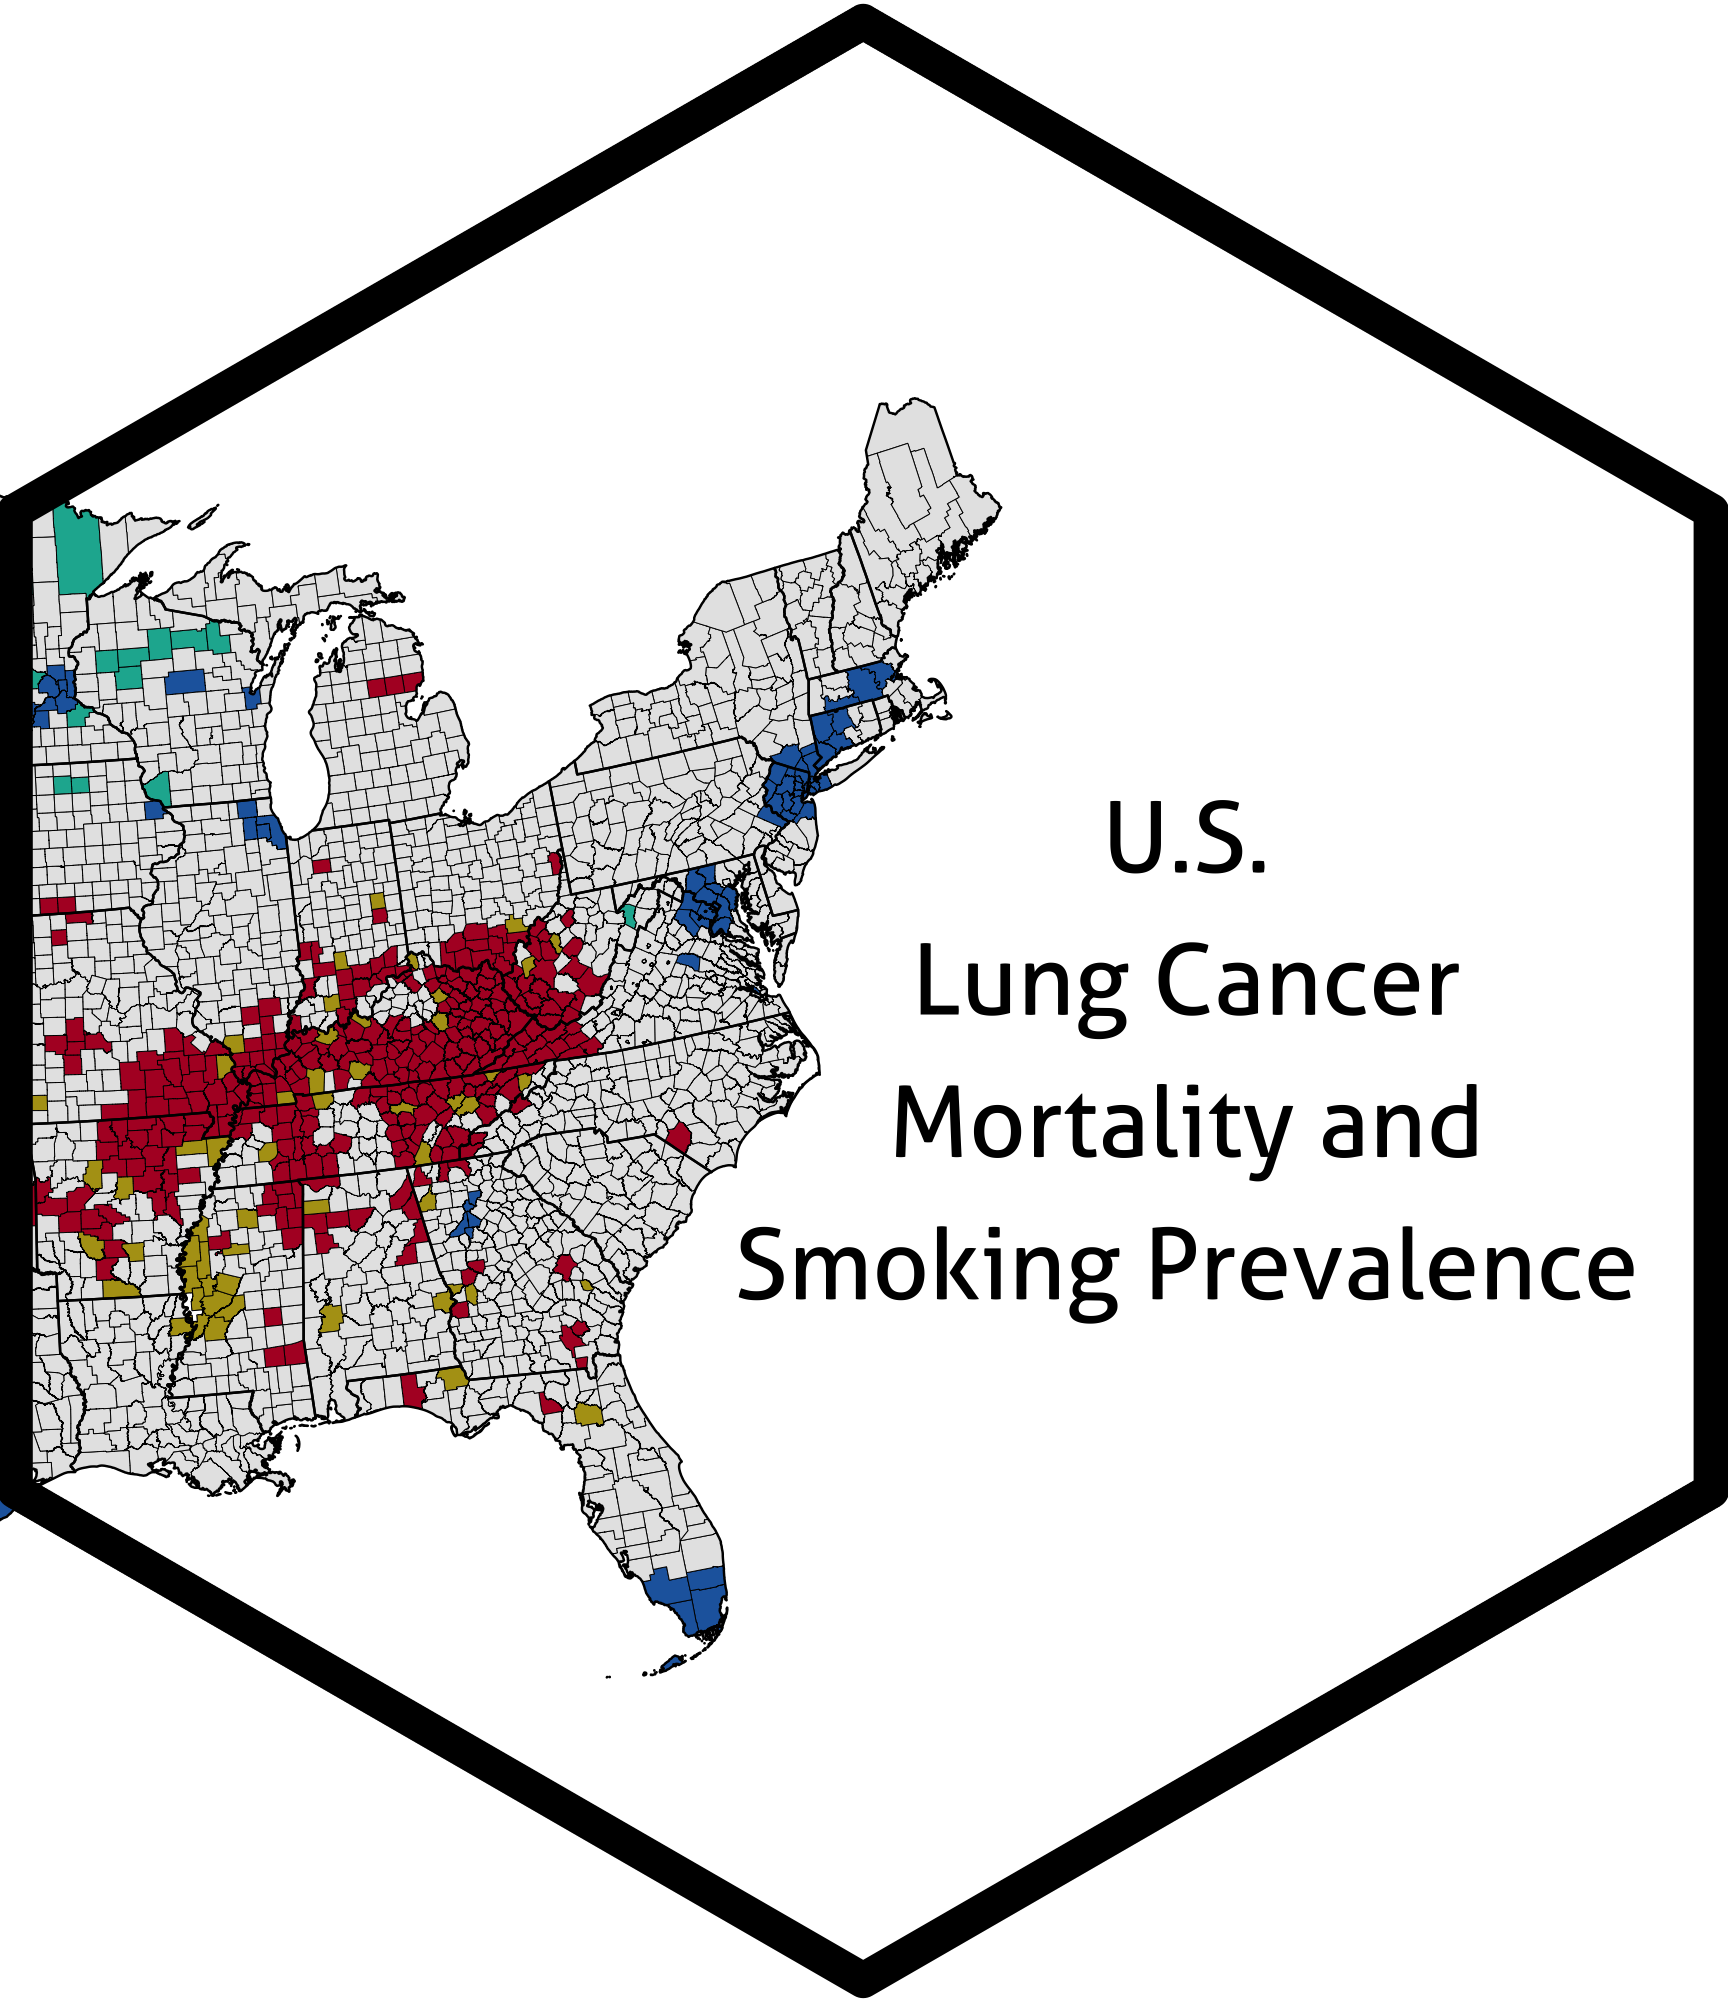
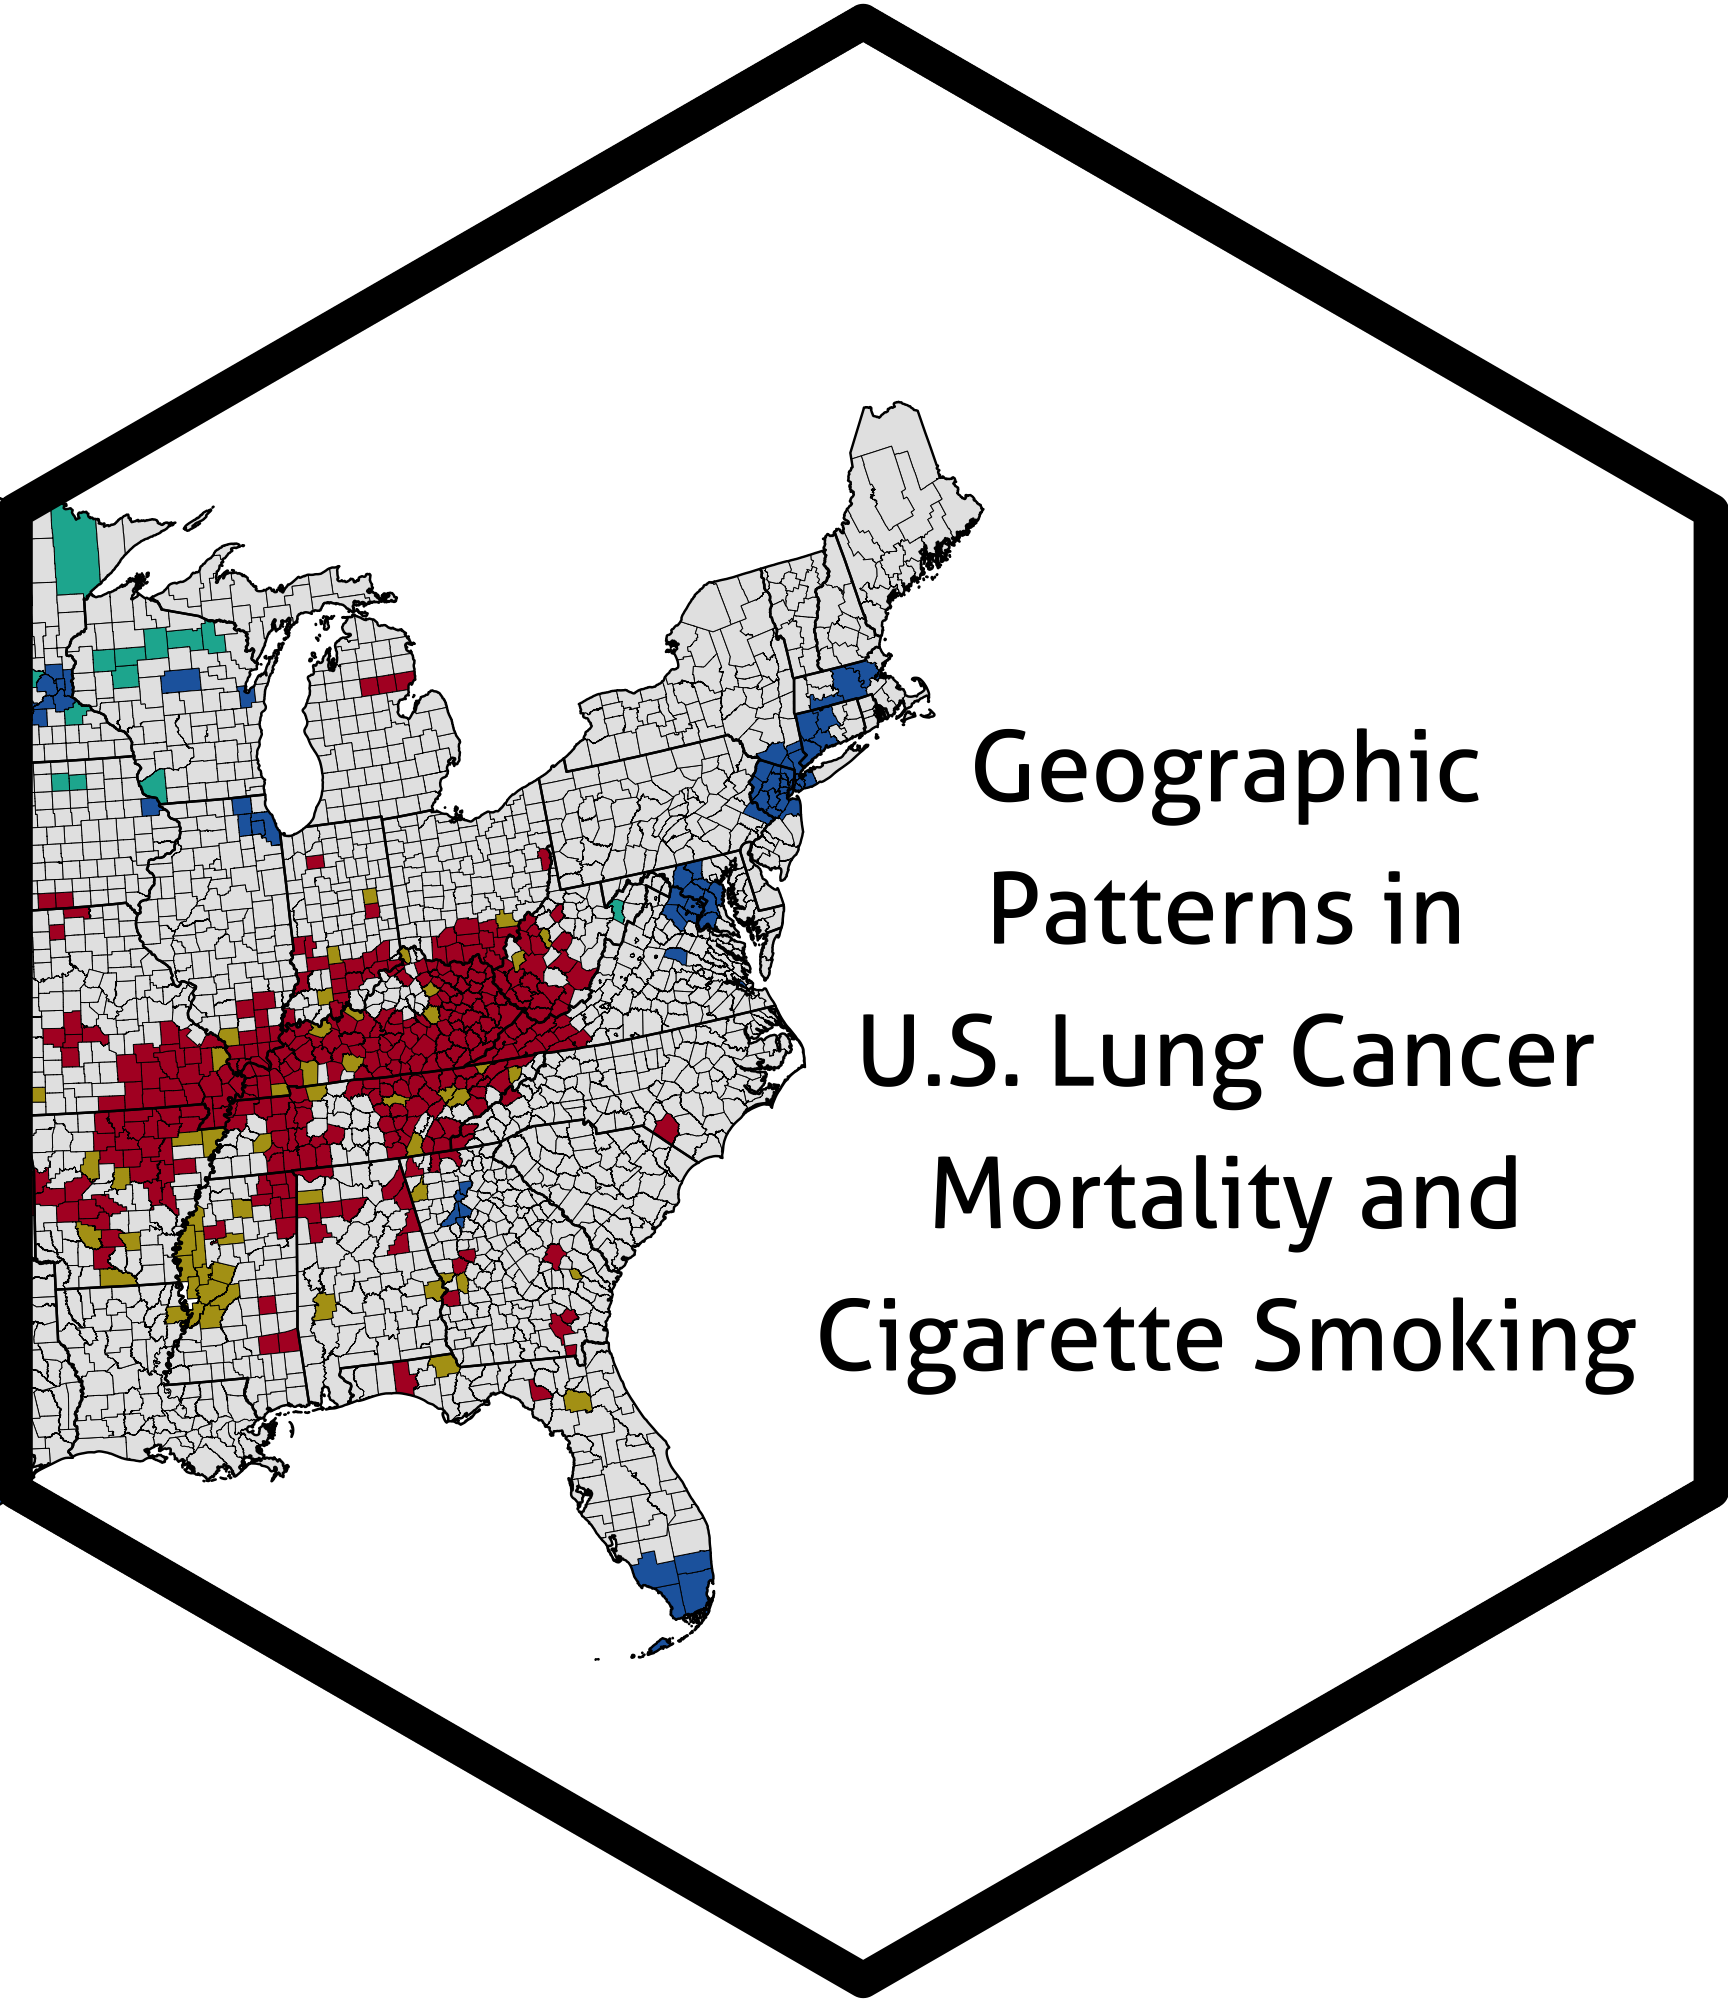
Changed name of repository to "geo_US_lung_cancer_and_smoking"
Updated hexsticker title and included README in "hex" subdirectory

Changed region(s): [[0.0, 0.186, 0.9688, 0.837]]

diff --git a/README.md b/README.md
@@ -3,7 +3,7 @@ Geographic Patterns in U.S. Lung Cancer Mortality and Cigarette Smoking <img src
 
 ![license](https://img.shields.io/badge/license-apache-yellow)
 
-**Date repository last updated**: June 07, 2022
+**Date repository last updated**: June 08, 2022
 
 ### Authors
 
@@ -68,7 +68,7 @@ Lung cancer is the leading cause of cancer death in the United States (US) and v
 
 ### R Scripts Included In This Repository
 
-This repository includes R scripts use to calculate the geospatial techniques and render the figures found in the following peer-reviewed manuscript:
+This repository includes R scripts use to calculate the Lee's L statistic and render the geographic visualizations found in the following peer-reviewed manuscript:
 
 Shreves AH, Buller ID, Chase E, Creutzfeld H, Fisher JA, Graubard BI, Hoover RN, Silverman DT, Devesa SS, Jones RR. Geographic Patterns in U.S. Lung Cancer Mortality and Cigarette Smoking. _Cancer Epidemiology, Biomarkers & Prevention_ (Submitted)
 

diff --git a/code/README.md b/code/README.md
@@ -3,7 +3,7 @@ Geographic Patterns in U.S. Lung Cancer Mortality and Cigarette Smoking <img src
 
 ### R Scripts Included In This Repository
 
-This repository includes R scripts use to calculate the geospatial techniques and render the figures found in the following peer-reviewed manuscript:
+This repository includes R scripts use to calculate the Lee's L statistic and render the geographic visualizations found in the following peer-reviewed manuscript:
 
 Shreves AH, Buller ID, Chase E, Creutzfeld H, Fisher JA, Graubard BI, Hoover RN, Silverman DT, Devesa SS, Jones RR. Geographic Patterns in U.S. Lung Cancer Mortality and Cigarette Smoking. _Cancer Epidemiology, Biomarkers & Prevention_ (Submitted)
 

diff --git a/hex/README.md b/hex/README.md
@@ -1,0 +1,4 @@
+Geographic Patterns in U.S. Lung Cancer Mortality and Cigarette Smoking <img src="../hex/hex.png" width="120" align="right" />
+===================================================
+
+Code to generate the project hexsticker (includes the PNG file).
